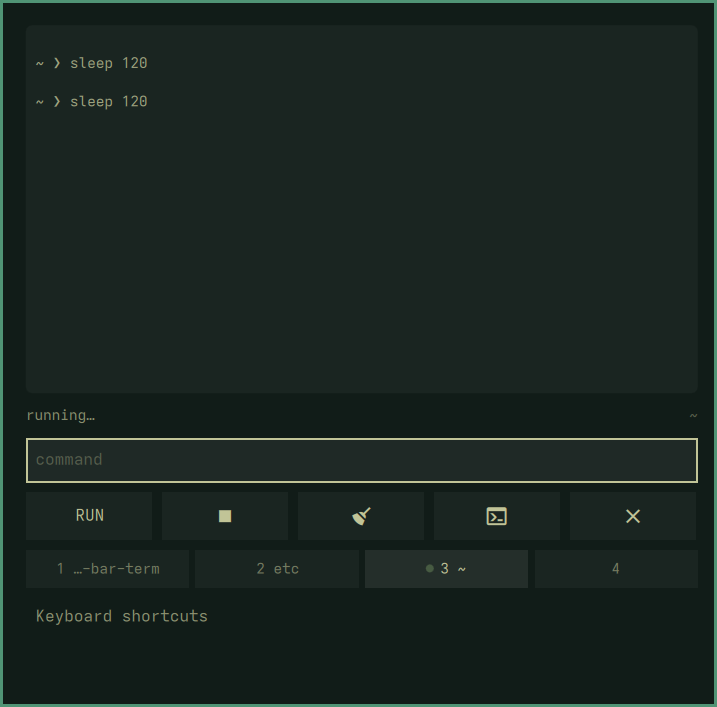
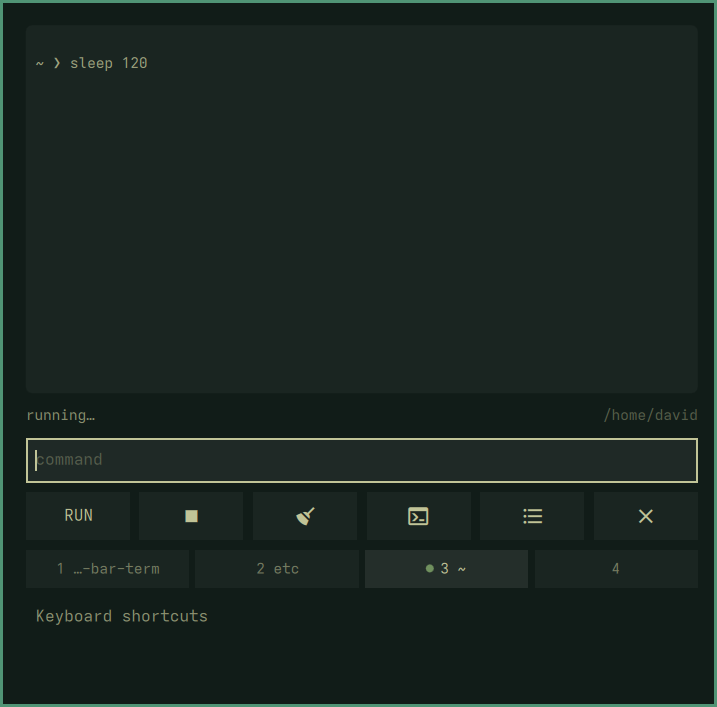
docs: screenshots with the session button in the row
Claude-Session: https://claude.ai/code/session_01NsuTX3xQbZ1pzCFMGiucjP

diff --git a/README.md b/README.md
@@ -89,8 +89,8 @@ you would rather not untangle.
 
 ## Resuming a session you already have
 
-`Ctrl+P` lists every tmux session on the server, whoever made it, and points the current
-tab at the one you pick. A session you started in a terminal this morning shows up in the
+`Ctrl+P`, or the list button in the key row, shows every tmux session on the server,
+whoever made it, and points the current tab at the one you pick. A session you started in a terminal this morning shows up in the
 bar with its scrollback intact, and typing in the pad types into it.
 
 <p align="center">
